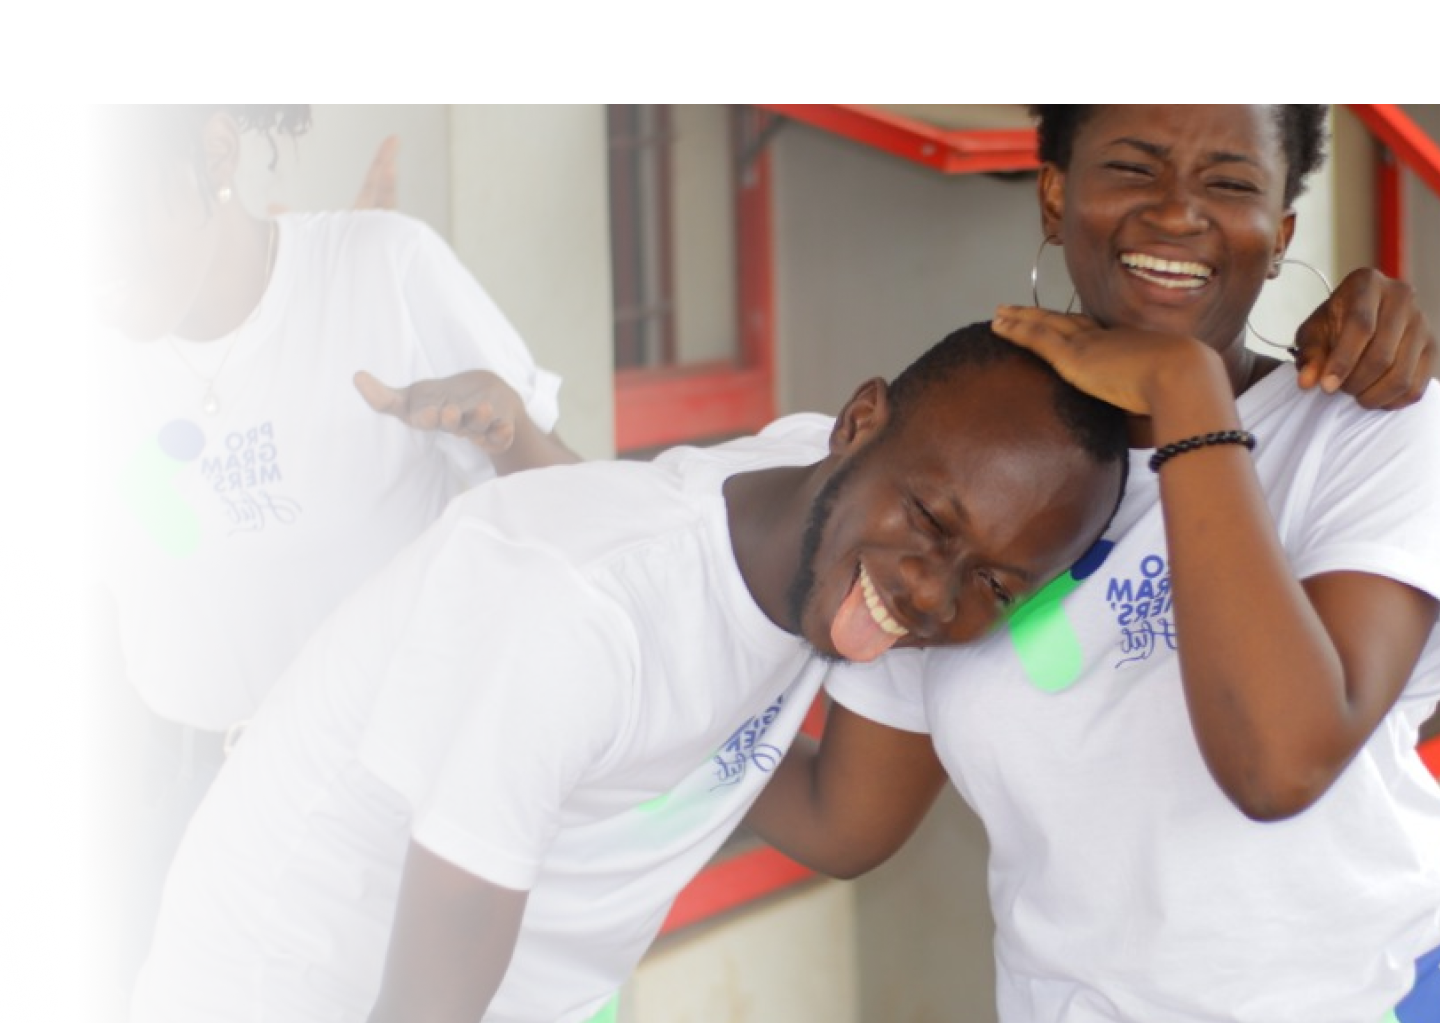
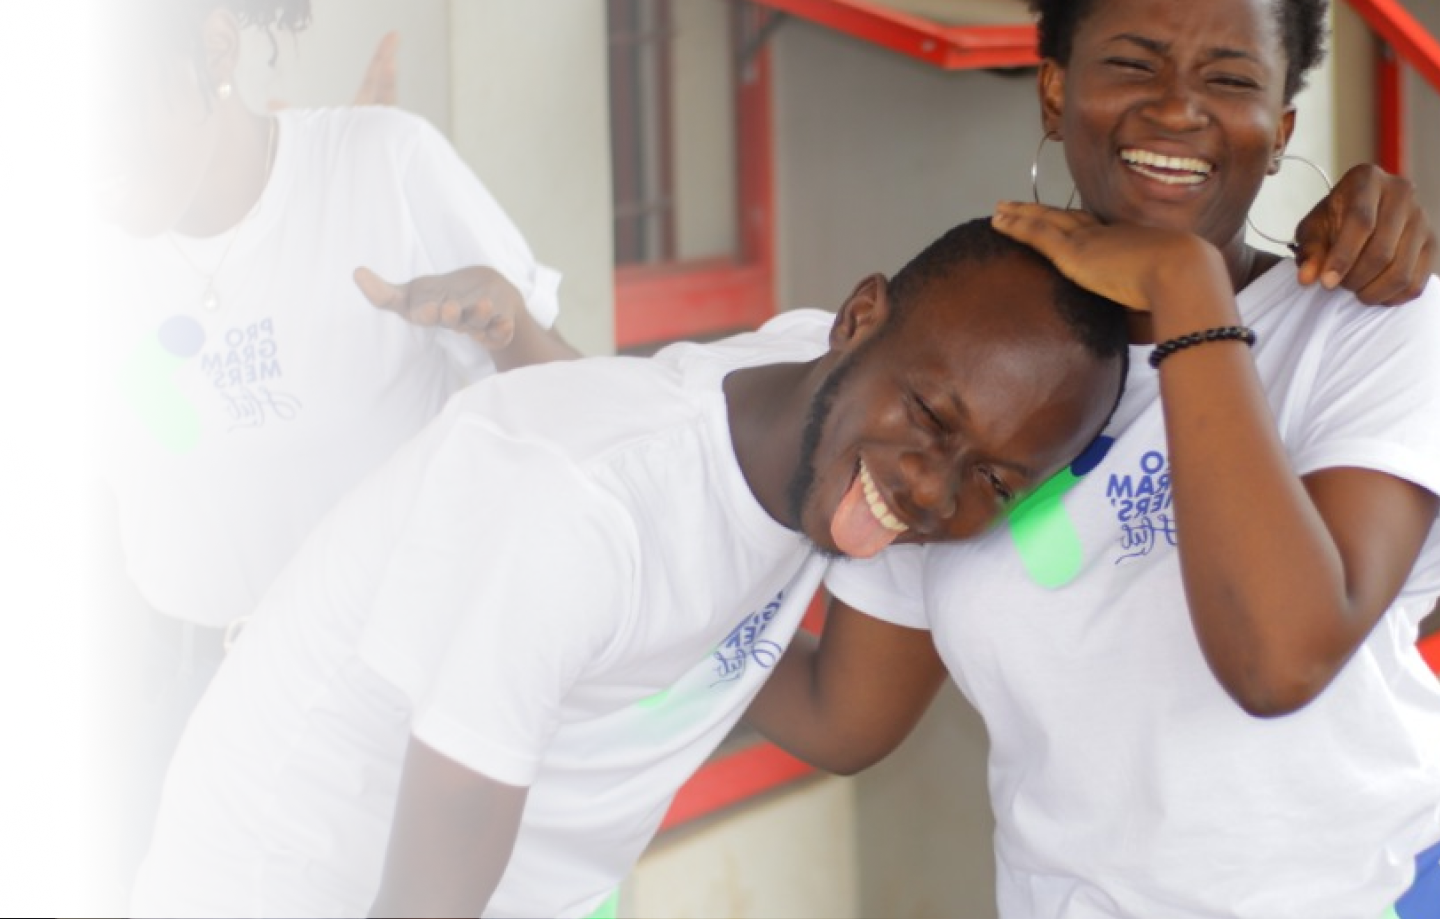
styled slider

diff --git a/components/HeroSection.vue b/components/HeroSection.vue
@@ -2,14 +2,15 @@
 import { ref } from "vue";
 import sliderImage1 from "~/assets/images/slider-1.png";
 
-const slideItems = ref([{
+const slideItems = ref([
+  {
     image: sliderImage1,
     caption: "Building a Community of Techies",
-},
-{
+  },
+  {
     image: sliderImage1,
     caption: "Building a Community of Techies",
-}
+  },
 ]);
 
 const activeSlider = ref(0);
@@ -25,7 +26,7 @@ const changeSlider = () => {
   }, 1000);
 };
 
-changeSlider();
+// changeSlider();
 </script>
 
 <template>
@@ -37,13 +38,15 @@ changeSlider();
           :id="`slide-${i}`"
           :key="i"
           :class="`${activeSlider === i ? 'opacity-100' : 'opacity-0'}`"
-          class="carousel-item  relative block inset-0 relative -mr-[100%] w-full transform transition-all duration-700 ease-in-out ease-in h-[90vh] bg-no-repeat bg-center bg-cover pt-52 px-32"
+          class="carousel-item relative block inset-0 relative -mr-[100%] w-full transform transition-all duration-700 ease-in-out ease-in h-56 lg:h-[90vh] bg-no-repeat lg:bg-center bg-cover lg:bg-cover pt-10 lg:pt-52 px-8 lg:px-32"
           :style="`background-image: url(${item.image});`"
         >
-        <div class="h-1 w-24 bg-primary"></div>
-        <h1 class="text-5xl text-dark font-bold leading-tight w-64 mt-16">
-          {{ item.caption }}
-        </h1>
+          <div class="h-1 w-24 bg-primary"></div>
+          <h1
+            class="text-xl lg:text-5xl text-dark font-bold leading-tight w-32 lg:w-64 mt-2 lg:mt-16"
+          >
+            {{ item.caption }}
+          </h1>
         </div>
       </div>
     </div>
@@ -55,5 +58,4 @@ changeSlider();
   float: left;
   backface-visibility: hidden;
 }
-
 </style>

diff --git a/tailwind.config.js b/tailwind.config.js
@@ -1,14 +1,25 @@
 /** @type {import('tailwindcss').Config} */
 const tailwindcss = require("tailwindcss");
+const plugin = require("tailwindcss/plugin");
 
-function withOpacityValue(variable) {
+const withOpacityValue = (variable) => {
   return ({ opacityValue }) => {
     if (opacityValue === undefined) {
       return `rgb(var(${variable}))`;
     }
     return `rgb(var(${variable}) / ${opacityValue})`;
   };
-}
+};
+const backfaceVisibility = plugin(function ({ addUtilities }) {
+  addUtilities({
+    ".backface-visible": {
+      "backface-visibility": "visible",
+    },
+    ".backface-hidden": {
+      "backface-visibility": "hidden",
+    },
+  });
+});
 
 module.exports = {
   content: [
@@ -37,5 +48,5 @@ module.exports = {
       },
     },
   },
-  plugins: [tailwindcss],
+  plugins: [tailwindcss, backfaceVisibility],
 };

diff --git a/assets/css/main.css b/assets/css/main.css
@@ -1,0 +1,6 @@
+@import url('https://fonts.googleapis.com/css2?family=Raleway:ital,wght@0,100;0,200;0,300;0,400;0,500;0,600;0,700;0,800;0,900;1,100;1,200;1,300;1,400;1,500;1,600;1,700;1,800&display=swap');
+
+
+body {
+    font-family: 'Raleway', sans-serif;
+}

diff --git a/nuxt.config.ts b/nuxt.config.ts
@@ -1,5 +1,5 @@
 // https://v3.nuxtjs.org/api/configuration/nuxt.config
 export default defineNuxtConfig({
   modules: ["@nuxtjs/tailwindcss"],
-  css: ["@/assets/css/tailwind.css"],
+  css: ["@/assets/css/tailwind.css", "@/assets/css/main.css"],
 });
